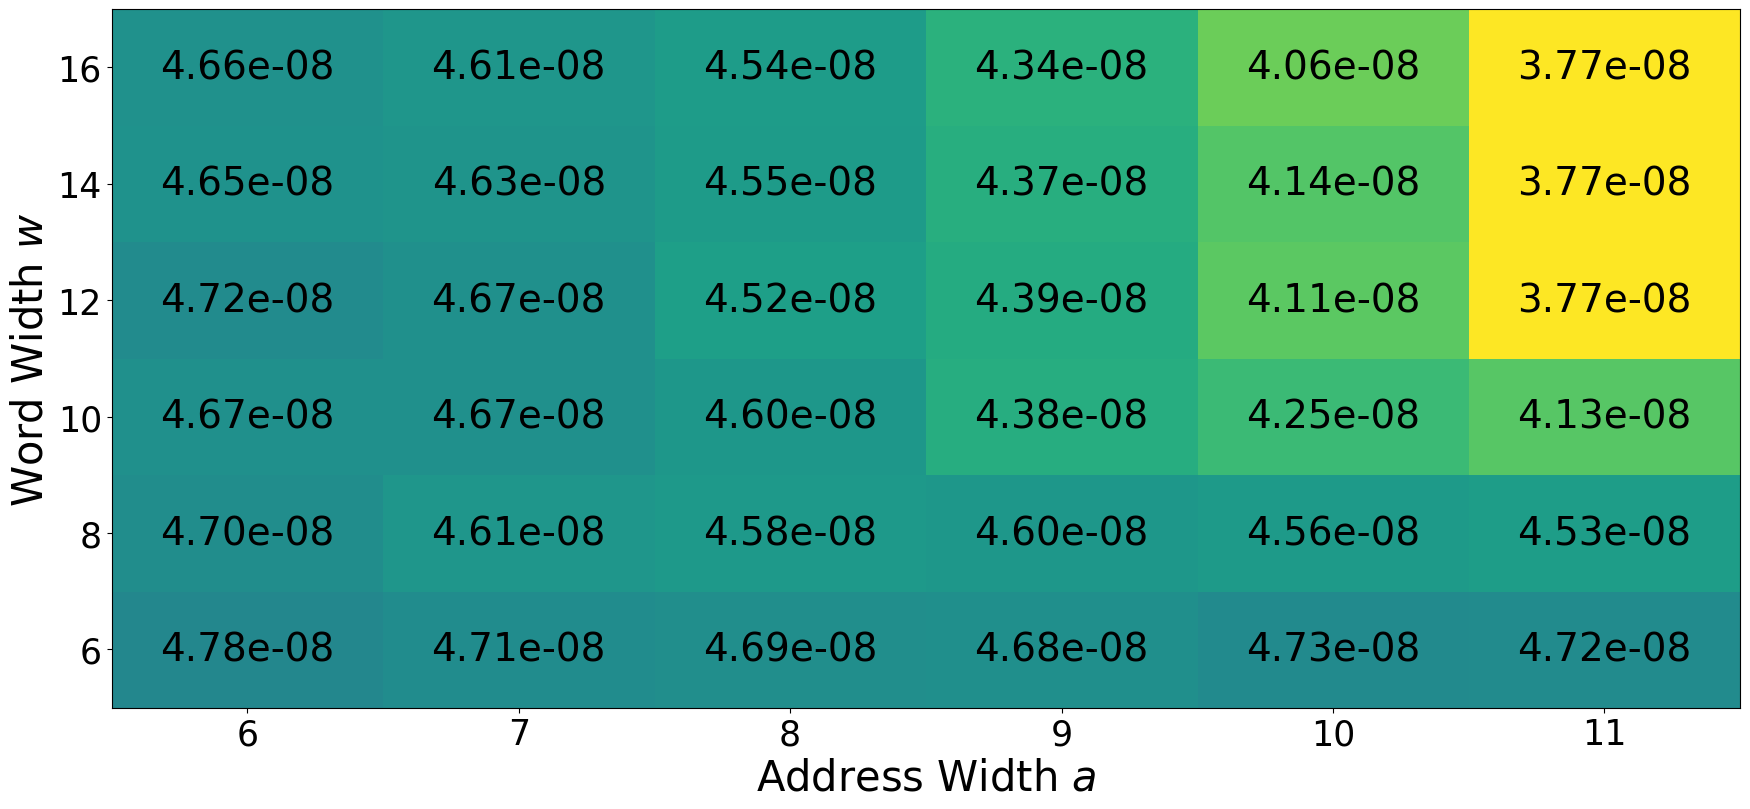
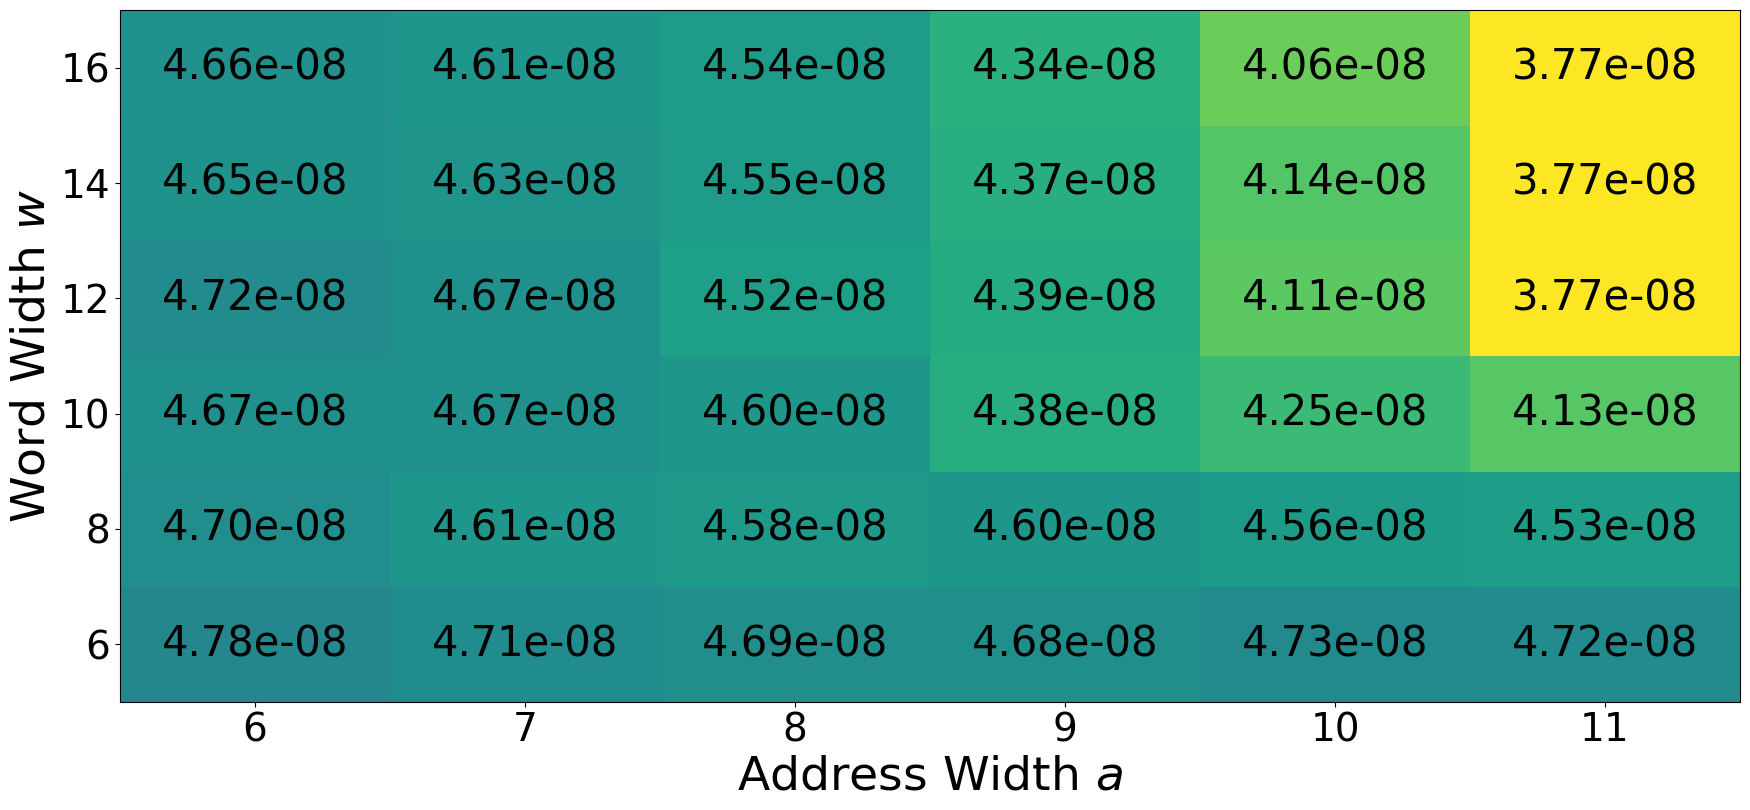
m

diff --git a/evaluation/rec/lookup/scripts/plot.py b/evaluation/rec/lookup/scripts/plot.py
@@ -46,7 +46,7 @@ def load_triplets(filepath):
 
 def plot_heatmap(filepath, output_path=None, title=None, xlabel="x", ylabel="y", cmap_name='viridis_r', gamma=0.7,
 				 vmax_factor=1.3,
-				 fontsize_data=28, fontsize_labels=30, fontsize_ticks=25, cell_width=1.8, cell_height=1.2):
+				 fontsize_data=30, fontsize_labels=34, fontsize_ticks=28, cell_width=1.8, cell_height=1.2):
 	triplets = load_triplets(filepath)
 
 	# Determine axis tick labels from the data

diff --git a/evaluation/exp/lookup/scripts/plot.py b/evaluation/exp/lookup/scripts/plot.py
@@ -45,7 +45,7 @@ def load_triplets(filepath):
 
 
 def plot_heatmap(filepath, output_path=None, title=None, xlabel="x", ylabel="y", cmap_name='viridis_r', gamma=0.7,
-				 fontsize_data=28, fontsize_labels=30, fontsize_ticks=25, cell_width=1.8, cell_height=1.2):
+				 fontsize_data=30, fontsize_labels=34, fontsize_ticks=28, cell_width=1.8, cell_height=1.2):
 	triplets = load_triplets(filepath)
 
 	# Determine axis tick labels from the data

diff --git a/evaluation/rsqrt/lookup/scripts/plot.py b/evaluation/rsqrt/lookup/scripts/plot.py
@@ -45,7 +45,7 @@ def load_triplets(filepath):
 
 
 def plot_heatmap(filepath, output_path=None, title=None, xlabel="x", ylabel="y", cmap_name='viridis_r', gamma=0.7,
-				 fontsize_data=28, fontsize_labels=30, fontsize_ticks=25, cell_width=1.8, cell_height=1.2):
+				 fontsize_data=30, fontsize_labels=34, fontsize_ticks=28, cell_width=1.8, cell_height=1.2):
 	triplets = load_triplets(filepath)
 
 	# Determine axis tick labels from the data
